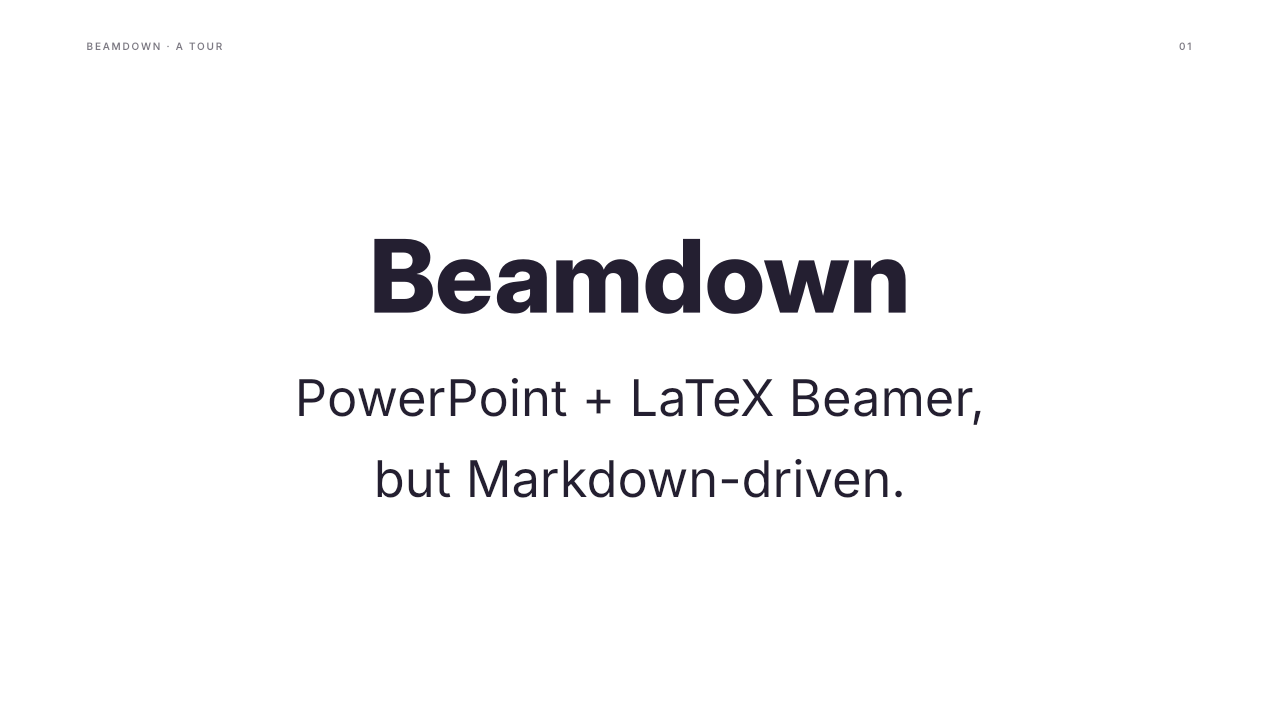
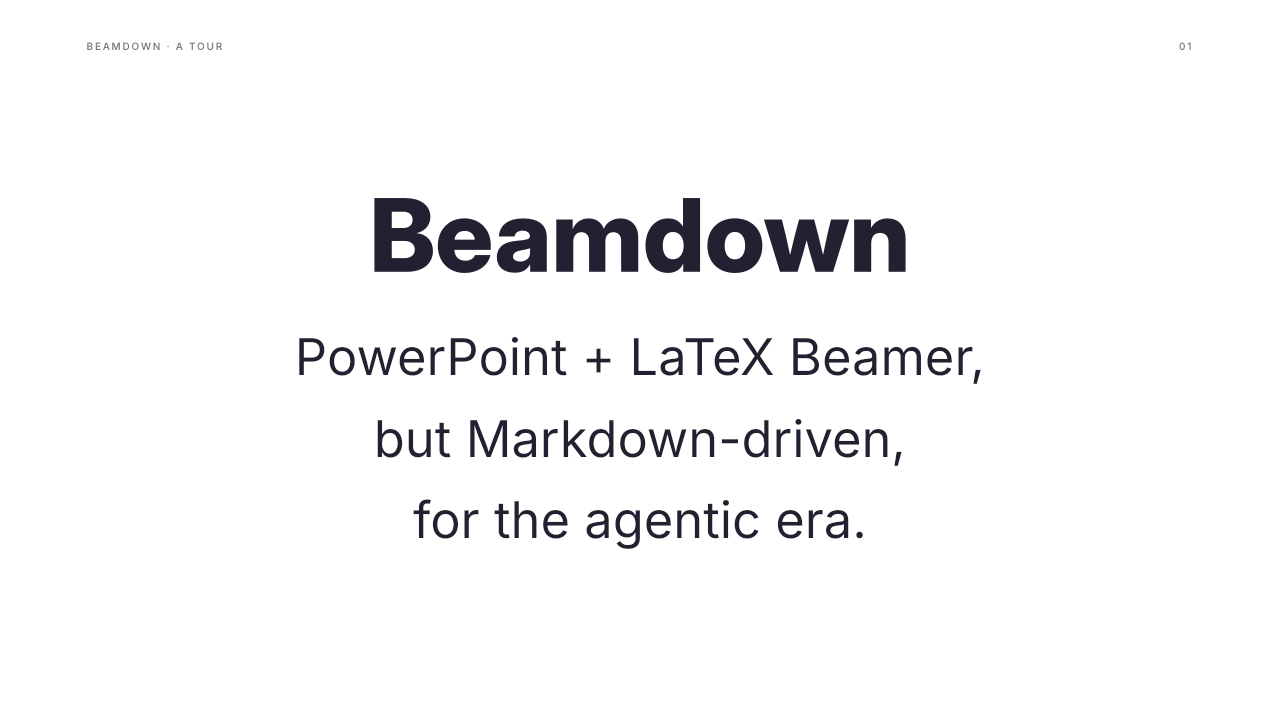
Extend the tagline: "for the agentic era"
The tagline becomes "PowerPoint + LaTeX Beamer, but Markdown-driven,
for the agentic era." It says up front what the docs now lead with:
an agent drafts the deck, the person finishes it in the editor.

Updated everywhere the tagline appears: the README, the docs home and
site description, the brand page (with where to break it), --help,
the desktop file, the PKGBUILD and the tour deck's title slide. The
editor screenshots and the tour's title slide render are re-shot so
they show the new title.

The home hero now scales its title and tagline to the screen width;
on a phone the title used to break as "Beamdow / n".

Changed region(s): [[0.2188, 0.275, 0.7812, 0.7639]]

diff --git a/docs/stylesheets/beamdown.css b/docs/stylesheets/beamdown.css
@@ -102,7 +102,7 @@
 }
 
 .md-typeset .bd-hero__title {
-  font-size: 3.6rem;
+  font-size: clamp(2.6rem, 13vw, 3.6rem);
   line-height: 1;
   margin: 0 0 0.6rem;
 }
@@ -112,7 +112,8 @@
 }
 
 .bd-hero__tagline {
-  font-size: 1.5rem;
+  font-size: clamp(1.15rem, 5vw, 1.5rem);
+  line-height: 1.3;
   font-weight: 700;
   margin: 0 0 0.6rem !important;
 }

diff --git a/src/main.cpp b/src/main.cpp
@@ -59,7 +59,7 @@ int main(int argc, char **argv) {
     if (command)
         return runCli(app.arguments());
     QCommandLineParser args;
-    args.setApplicationDescription("PowerPoint + LaTeX Beamer, but Markdown-driven.\n\n" + cliSummary());
+    args.setApplicationDescription("PowerPoint + LaTeX Beamer, but Markdown-driven, for the agentic era.\n\n" + cliSummary());
     args.addHelpOption();
     args.addVersionOption();
     args.addPositionalArgument("presentation", "Markdown presentation");

diff --git a/docs/brand.md b/docs/brand.md
@@ -6,7 +6,7 @@ Beamdown should look like what it is: a calm GNOME app that turns plain text int
 
 **Beamdown** is one word with a capital B. Not BeamDown, Beam Down or beamdown in prose; `beamdown` is only the command.
 
-The tagline is **PowerPoint + LaTeX Beamer, but Markdown-driven.** Use it whole, with the plus sign. When there is room for one more line, add: *A presentation app for GNOME.*
+The tagline is **PowerPoint + LaTeX Beamer, but Markdown-driven, for the agentic era.** Use it whole, with the plus sign and both commas. Where it has to break, break before *for the agentic era*. When there is room for one more line, add: *A presentation app for GNOME.*
 
 When a fuller credit is needed, say Beamdown is *a fork of Hype by David Heinemeier Hansson*, and link to [Hype](https://github.com/omacom/hype).
 

diff --git a/docs/index.md b/docs/index.md
@@ -1,6 +1,6 @@
 ---
 title: Beamdown
-description: PowerPoint + LaTeX Beamer, but Markdown-driven. A presentation app for GNOME.
+description: PowerPoint + LaTeX Beamer, but Markdown-driven, for the agentic era. A presentation app for GNOME.
 hide:
   - navigation
   - toc
@@ -12,7 +12,7 @@ hide:
 
 # Beamdown { .bd-hero__title }
 
-<p class="bd-hero__tagline">PowerPoint + LaTeX Beamer, <span>but Markdown-driven.</span></p>
+<p class="bd-hero__tagline">PowerPoint + LaTeX Beamer, <span>but Markdown-driven,</span><br>for the agentic era.</p>
 
 <p class="bd-hero__lede">A presentation app for GNOME. Your agent drafts the deck in Markdown, following your brand guidelines. You finish it in a visual editor, and export to PDF or PowerPoint.</p>
 

diff --git a/README.md b/README.md
@@ -4,7 +4,7 @@
 
 # Beamdown
 
-**PowerPoint + LaTeX Beamer, but Markdown-driven.**
+**PowerPoint + LaTeX Beamer, but Markdown-driven, for the agentic era.**
 
 A presentation app for GNOME. Your agent drafts the deck in Markdown, following your<br>
 brand guidelines. You finish it in a visual editor, and export to PDF or PowerPoint.

diff --git a/examples/tour/presentation.md b/examples/tour/presentation.md
@@ -10,7 +10,8 @@ header: "Beamdown · A tour"
 # Beamdown
 
 PowerPoint + LaTeX Beamer,
-but Markdown-driven.
+but Markdown-driven,
+for the agentic era.
 
 ---
 
